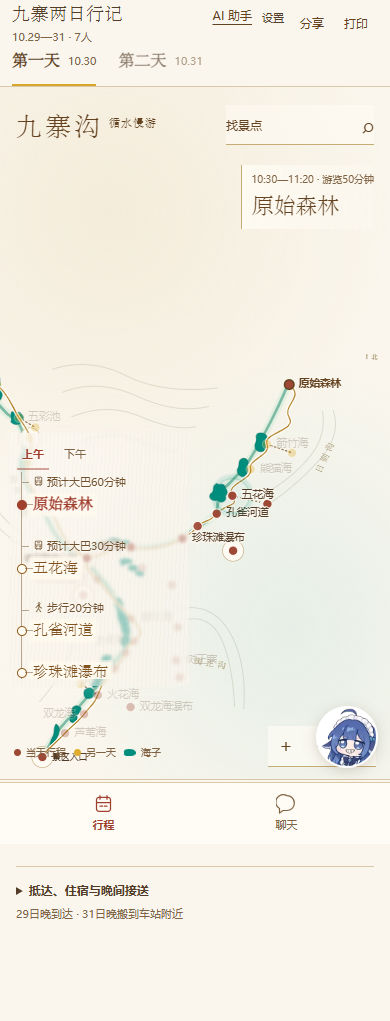
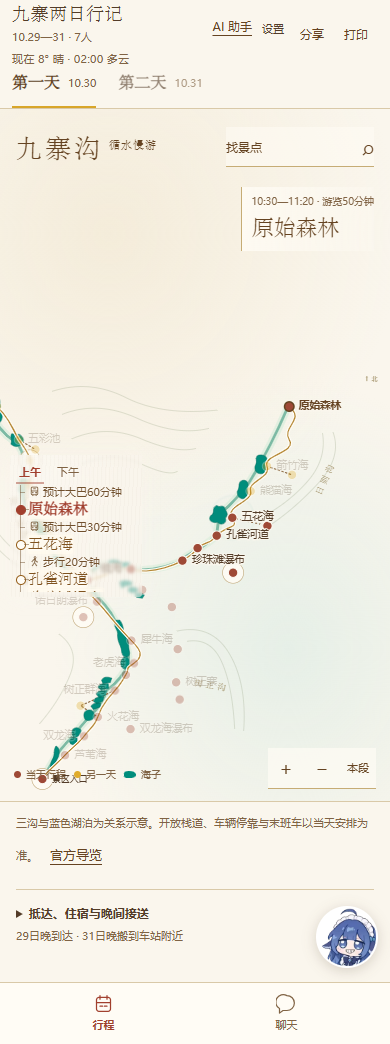
行程栏吸附内容宽度、景点紧凑排列与条目内向下展开

diff --git a/public/style.css b/public/style.css
@@ -90,11 +90,12 @@ main { max-width: 1680px; margin: auto; }
 .painting-title small { font: 15px var(--serif); letter-spacing: 4px; padding-top: 5px; }
 .painting-title i { display: none; padding: 4px 2px; margin-top: 74px; border: 1px solid var(--autumn); color: var(--autumn); font: normal 13px/1.2 var(--serif); }
 
-/* A four-place itinerary overlays the painting with backing only behind text. */
-.itinerary-inscription { position: absolute; top: var(--itinerary-top, 50%); left: 3.3%; width: 192px; max-height: none; padding: 8px 10px; border: 0; border-radius: 3px; color: var(--itinerary); display: flex; flex-direction: column; isolation: isolate; z-index: 2; background: radial-gradient(120% 80% at 18% 12%, rgba(255,255,255,.24), transparent 55%), repeating-linear-gradient(93deg, rgba(128,99,68,.028) 0 1px, transparent 1px 4px), rgba(250,246,237,.62); box-shadow: 0 0 18px rgba(250,246,237,.3); -webkit-backdrop-filter: blur(1.5px); backdrop-filter: blur(1.5px); }
+/* The itinerary hugs its widest line instead of keeping a fixed, emptier column. */
+.itinerary-inscription { position: absolute; top: var(--itinerary-top, 50%); left: 3.3%; width: var(--itinerary-width, fit-content); min-width: 132px; max-width: min(168px, calc(100% - 24px)); max-height: none; padding: 5px 7px 5px; border: 0; border-radius: 3px; color: var(--itinerary); display: flex; flex-direction: column; isolation: isolate; z-index: 2; background: radial-gradient(120% 80% at 18% 12%, rgba(255,255,255,.24), transparent 55%), repeating-linear-gradient(93deg, rgba(128,99,68,.028) 0 1px, transparent 1px 4px), rgba(250,246,237,.62); box-shadow: 0 0 18px rgba(250,246,237,.3); -webkit-backdrop-filter: blur(1.5px); backdrop-filter: blur(1.5px); transition: top .18s ease; }
 .timeline-ink { position: relative; display: inline-block; max-width: 100%; vertical-align: top; isolation: isolate; }
 /* Only the place name carries a small cream backing; times and transport stay plain. */
-.itinerary-inscription .place-name { padding: 0 3px; margin: 0 -3px; border-radius: 2px; background: rgba(255,250,238,.9); box-shadow: 0 0 0 2px rgba(255,250,238,.52); }
+.itinerary-inscription .place-name { padding: 0; margin: 0 -1px; border-radius: 2px; background: rgba(255,250,238,.9); box-shadow: 0 0 0 2px rgba(255,250,238,.52); word-break: keep-all; overflow-wrap: normal; }
+.itinerary-inscription .step-places .timeline-ink { word-break: keep-all; overflow-wrap: normal; }
 @supports not ((backdrop-filter: blur(1px)) or (-webkit-backdrop-filter: blur(1px))) {
   .itinerary-inscription { background-color: rgba(250,246,237,.78); }
 }
@@ -111,7 +112,7 @@ main { max-width: 1680px; margin: auto; }
 .period-switch [aria-pressed=true] { color: var(--maple); border-bottom-color: var(--gold); font-weight: 600; }
 .itinerary-inscription .period-switch { border-bottom: 0; }
 .itinerary-inscription .period-switch [aria-pressed=true] { border-bottom-color: rgba(161,63,45,.45); }
-.schedule-list { list-style: none; padding: 0 5px 0 0; margin: 0; max-height: min(306px, var(--timeline-window, 306px)); overflow-x: hidden; overflow-y: auto; overscroll-behavior: contain; scroll-snap-type: y proximity; scrollbar-width: thin; scrollbar-color: rgba(128,99,68,.3) transparent; min-height: 70px; }
+.schedule-list { list-style: none; padding: 0; margin: 0; max-height: var(--timeline-window, 306px); overflow-x: hidden; overflow-y: auto; overscroll-behavior: contain; scroll-snap-type: y proximity; scrollbar-width: thin; scrollbar-gutter: stable; scrollbar-color: rgba(128,99,68,.3) transparent; min-height: 0; }
 .schedule-row { margin-bottom: 3px; }
 .schedule-row:last-child { border-bottom: 0; }
 .schedule-step { display: flex; align-items: baseline; gap: 7px; width: 100%; min-height: 44px; padding: 8px 0; border: 0; background: transparent; text-align: left; }
@@ -133,44 +134,44 @@ main { max-width: 1680px; margin: auto; }
 .spot-notes dt { color: var(--pine); font-size: 11px; letter-spacing: 1px; }
 .spot-notes dd { margin: 3px 0 0; font-size: 13px; color: var(--ink); line-height: 1.7; }
 .spot-notes .note-empty { height: 8px; border-bottom: 1px dotted var(--line); }
-.itinerary-inscription.is-compact { width: 192px; }
-.is-compact .schedule-step { min-height: 40px; padding: 7px 0; }
+.itinerary-inscription.is-compact { width: var(--itinerary-width, fit-content); }
 .is-compact .step-chevron { display: none; }
 
 /* Compact itinerary typography; map and system typography stay unchanged. */
 .itinerary-inscription { text-shadow: 0 1px 2px #fff; }
 .itinerary-inscription button, .itinerary-inscription input { text-shadow: inherit; }
-.itinerary-inscription .period-switch { gap: 10px; margin-bottom: 2px; }
-.itinerary-inscription .period-switch button { flex: 0 0 auto; min-height: 30px; padding: 3px 5px; line-height: 1.3; }
+.itinerary-inscription .period-switch { gap: 10px; margin-bottom: 1px; }
+.itinerary-inscription .period-switch button { flex: 0 0 auto; min-height: 24px; padding: 1px 3px; line-height: 1.25; }
 .itinerary-inscription .schedule-row { margin-bottom: 0; }
-.itinerary-inscription .schedule-step { display: block; min-height: 40px; padding: 0; line-height: 1.35; }
-.itinerary-inscription .schedule-step strong { display: block; font-family: var(--serif); font-size: 15px; line-height: 1.35; }
-.itinerary-inscription .step-meta { margin-top: 1px; font-family: "Microsoft YaHei", "PingFang SC", system-ui, sans-serif; font-size: 11px; line-height: 1.35; white-space: normal; }
+.itinerary-inscription .schedule-step { display: block; min-height: 0; padding: 0; line-height: 1.25; }
+.itinerary-inscription .schedule-step strong { display: block; font-family: var(--serif); font-size: 15px; line-height: 1.25; }
+.itinerary-inscription .step-meta { margin-top: 0; font-family: "Microsoft YaHei", "PingFang SC", system-ui, sans-serif; font-size: 11px; line-height: 1.3; white-space: normal; }
 .itinerary-inscription .step-meta time { white-space: nowrap; }
-.itinerary-inscription .step-detail { padding-bottom: 5px; }
-.itinerary-inscription .step-places { gap: 2px 6px; margin-bottom: 3px; }
-.itinerary-inscription .step-places button { min-height: 30px; padding: 3px 0; font-family: var(--serif); font-size: 13px; line-height: 1.35; }
-.itinerary-inscription .spot-notes { gap: 3px; }
-.itinerary-inscription .spot-notes > div { display: grid; grid-template-columns: auto minmax(0, 1fr); align-items: baseline; column-gap: 5px; }
-.itinerary-inscription .spot-notes dt { font-size: 11px; line-height: 1.45; letter-spacing: 0; }
-.itinerary-inscription .spot-notes dd { margin: 0; font-size: 12px; line-height: 1.45; }
+.itinerary-inscription .step-detail { margin-left: 1px; padding: 3px 4px 4px 7px; border-left: 1px solid rgba(128,99,68,.34); border-radius: 0 2px 2px 0; background: rgba(255,250,238,.84); box-shadow: 0 0 0 2px rgba(255,250,238,.32); text-shadow: none; animation: detail-drop .16s ease-out; }
+.itinerary-inscription .step-places { gap: 1px 5px; margin-bottom: 2px; }
+.itinerary-inscription .step-places button { min-height: 22px; padding: 1px 0; font-family: var(--serif); font-size: 12px; line-height: 1.25; }
+.itinerary-inscription .spot-notes { gap: 4px; }
+.itinerary-inscription .spot-notes > div { display: block; }
+.itinerary-inscription .spot-notes dt { font-size: 11px; line-height: 1.35; letter-spacing: 0; }
+.itinerary-inscription .spot-notes dd { margin: 0; font-size: 12px; line-height: 1.5; }
 .itinerary-inscription .spot-notes .is-empty { display: none; }
 .itinerary-inscription .inscription-heading { padding: 0 0 2px; }
 .itinerary-inscription .inscription-heading .quiet-button { min-height: 28px; padding: 2px 4px; }
-.timeline-stop { position: relative; padding: 0 0 4px 16px; scroll-snap-align: start; }
+@keyframes detail-drop { from { opacity: 0; transform: translateY(-3px); } to { opacity: 1; transform: none; } }
+.timeline-stop { position: relative; padding: 0 0 1px 13px; scroll-snap-align: start; }
 .timeline-stop::before { content: ''; position: absolute; left: 4px; top: 0; bottom: 0; width: 1px; background: rgba(128,99,68,.55); }
-.timeline-stop:last-child::before { bottom: 28px; }
+.timeline-stop:last-child::before { bottom: 20px; }
 .timeline-connection:empty { display: none; }
-.timeline-node { position: relative; display: block; min-height: 36px; }
-.timeline-node::before { content: ''; position: absolute; left: -16px; top: 6px; width: 8px; height: 8px; border: 1px solid var(--gold-ink); border-radius: 50%; background: var(--paper); }
-.timeline-node::after { content: ''; position: absolute; left: -8px; top: 10px; width: 8px; height: 1px; background: rgba(128,99,68,.55); }
+.timeline-node { position: relative; display: block; min-height: 0; }
+.timeline-node::before { content: ''; position: absolute; left: -13px; top: 5px; width: 8px; height: 8px; border: 1px solid var(--gold-ink); border-radius: 50%; background: var(--paper); }
+.timeline-node::after { content: ''; position: absolute; left: -5px; top: 9px; width: 5px; height: 1px; background: rgba(128,99,68,.55); }
 .timeline-stop.is-active .timeline-node::before { background: var(--maple); border-color: var(--maple); }
-.schedule-leg, .timeline-self-leg { position: relative; display: block; width: 100%; min-height: 20px; padding: 0; border: 0; background: none; color: #71502d; font: 11px/1.5 "Microsoft YaHei", "PingFang SC", system-ui, sans-serif; text-align: left; }
-.schedule-leg::before, .timeline-self-leg::before { content: ''; position: absolute; left: -11px; top: 10px; width: 7px; height: 1px; background: rgba(128,99,68,.55); }
+.schedule-leg, .timeline-self-leg { position: relative; display: block; width: 100%; min-height: 0; padding: 0; border: 0; background: none; color: #71502d; font: 11px/1.35 "Microsoft YaHei", "PingFang SC", system-ui, sans-serif; text-align: left; }
+.schedule-leg::before, .timeline-self-leg::before { content: ''; position: absolute; left: -9px; top: 7px; width: 5px; height: 1px; background: rgba(128,99,68,.55); }
 .schedule-row.selected .schedule-leg { color: var(--maple); font-weight: 600; }
 .travel-icon { width: 12px; height: 12px; margin-right: 3px; vertical-align: -1px; fill: none; stroke: currentColor; stroke-width: 1.4; stroke-linecap: round; stroke-linejoin: round; }
-.itinerary-inscription .travel-icon { width: 11px; height: 11px; }
-.timeline-stop .step-detail { padding: 3px 0 6px; }
+.itinerary-inscription .travel-icon { width: 11px; height: 11px; vertical-align: -1px; }
+.timeline-stop .step-detail { padding: 2px 0 4px 8px; }
 
 
 .location-pointer { position: absolute; width: 24px; height: 40px; transform: translate(-50%, -100%); pointer-events: none; z-index: 1; filter: drop-shadow(0 1px 2px rgba(101,67,33,.2)); }
@@ -258,7 +259,6 @@ main { max-width: 1680px; margin: auto; }
 .print-itinerary { display: none; }
 @media (max-width: 1000px) and (min-width: 701px) {
   .landscape { height: 680px; }
-  .itinerary-inscription { width: 192px; }
   .map-caption { max-width: 200px; }
 }
 
@@ -289,8 +289,8 @@ main { max-width: 1680px; margin: auto; }
   .map-caption { top: 78px; right: 16px; max-width: 46%; padding: 6px 0 6px 9px; }
   .map-caption > p { font-size: 10px; }
   .map-caption h3 { font-size: 22px; margin: 3px 0; }
-  .itinerary-inscription { bottom: auto; left: 10px; width: min(184px, 46%); max-height: none; padding: 7px; }
-  .itinerary-inscription.is-compact { width: min(184px, 46%); }
+  .itinerary-inscription { bottom: auto; left: 10px; width: var(--itinerary-width, fit-content); max-width: min(168px, calc(100% - 20px)); max-height: none; padding: 5px 6px; }
+  .itinerary-inscription.is-compact { width: var(--itinerary-width, fit-content); }
 
   .inscription-heading { padding: 2px 0; }
   .inscription-heading p, .inscription-heading .quiet-button { font-size: 11px; }
@@ -300,7 +300,7 @@ main { max-width: 1680px; margin: auto; }
   .timing-warning { font-size: 11px; }
   .period-switch { gap: 0; }
   .period-switch button { min-height: 38px; padding: 6px 4px; font-size: 11px; }
-  .schedule-list { padding-right: 5px; -webkit-overflow-scrolling: touch; }
+  .schedule-list { padding-right: 2px; -webkit-overflow-scrolling: touch; }
   .schedule-step { min-height: 48px; padding: 8px 0; gap: 5px; }
   .schedule-step strong { font-size: 13px; }
   .step-meta { font-size: 11px; }
@@ -344,17 +344,11 @@ main { max-width: 1680px; margin: auto; }
 .plan-setting legend { padding: 0; font-size: 12px; color: var(--muted); }
 .plan-setting label { display: flex; align-items: center; gap: 7px; min-height: 40px; font-size: 13px; cursor: pointer; }
 .plan-setting input { margin: 0; accent-color: var(--map-today); }
-/* Details never expand the always-visible itinerary. */
-.map-detail { position: absolute; z-index: 2; right: 32px; bottom: 76px; width: 250px; max-height: 35%; overflow: auto; padding: 10px 12px; background: rgba(255,252,245,.96); border: 1px solid var(--line); }
-.map-detail .step-detail { padding: 0; }
-.detail-title { font: 15px/1.4 var(--serif); margin-bottom: 6px; }
-.map-detail .spot-notes .is-empty { display: none; }
+/* Expanded stops grow inside the inscription itself; no separate detail card. */
 .map-viewport.is-moving .route-svg { will-change: transform; }
 .itinerary-inscription .inscription-heading { display: none; }
 
 @media (max-width: 700px) {
-  .map-detail { right: 10px; bottom: 70px; width: calc(50% - 14px); max-height: 30%; padding: 8px; }
-  .map-detail .spot-notes dd { font-size: 12px; }
   .painting-title { gap: 6px; }
   .painting-title > span { font-size: 26px; letter-spacing: 3px; }
   .painting-title small { font-size: 11px; letter-spacing: 1px; }
@@ -364,11 +358,9 @@ main { max-width: 1680px; margin: auto; }
   .painting-title { display: none; }
   .itinerary-inscription { padding: 4px; }
   .itinerary-inscription .schedule-step strong { white-space: nowrap; overflow: hidden; text-overflow: ellipsis; line-height: 1.2; }
-  .itinerary-inscription .step-meta { white-space: nowrap; line-height: 1.2; }
+  .itinerary-inscription .step-meta { line-height: 1.2; }
   .itinerary-inscription .timeline-stop { padding-bottom: 0; }
-  .itinerary-inscription .timeline-node { min-height: 32px; }
-  .itinerary-inscription .schedule-step { min-height: 34px; }
-  .itinerary-inscription .schedule-leg, .itinerary-inscription .timeline-self-leg { min-height: 18px; line-height: 1.4; }
+  .itinerary-inscription .schedule-leg, .itinerary-inscription .timeline-self-leg { line-height: 1.3; }
   .map-legend { display: none; }
 }
 @media (prefers-reduced-motion: reduce) { *, *::before, *::after { animation: none !important; transition: none !important; scroll-behavior: auto !important; } }
@@ -376,7 +368,7 @@ main { max-width: 1680px; margin: auto; }
   html, body { height: auto !important; overflow: visible !important; }
   main { height: auto !important; }
   body { padding: 0; background: #fff; font-size: 11px; }
-  .header, .bottom-nav, .skip, .toast, .location-pointer, .day-switch, .itinerary-inscription, .map-search, .map-caption, .map-detail, .map-controls, .journey-log, .journey-actions, .quiet-button, [data-view=weather], [data-view=notes] { display: none !important; }
+  .header, .bottom-nav, .skip, .toast, .location-pointer, .day-switch, .itinerary-inscription, .map-search, .map-caption, .map-controls, .journey-log, .journey-actions, .quiet-button, [data-view=weather], [data-view=notes] { display: none !important; }
   [data-view=home][hidden] { display: block !important; }
   .journey-heading { padding: 10px 0; }
   .landscape { height: auto; min-height: 0; max-height: none; overflow: visible; border: 0; }

diff --git a/public/app.js b/public/app.js
@@ -118,7 +118,6 @@ function render() {
           </aside>
           <details class="map-search" id="map-search"><summary aria-label="找景点"><span class="search-label">找景点</span><span class="search-icon" aria-hidden="true">⌕</span></summary><div><label for="spot-search">景点、栈道或换乘点</label><input id="spot-search" type="search" placeholder="例如：五花海" autocomplete="off"><div id="spot-results" aria-live="polite"></div></div></details>
           <article class="map-caption" id="map-caption" aria-live="polite"></article>
-          <section class="map-detail" id="map-detail" aria-label="所选行程详情" hidden></section>
           <div class="map-controls" role="group" aria-label="地图控制"><button type="button" data-zoom="in" aria-label="放大地图">＋</button><button type="button" data-zoom="out" aria-label="缩小地图">−</button><button type="button" id="map-follow">本段</button><output id="map-scale" aria-label="地图缩放比例">1×</output></div>
           <div class="map-legend" aria-label="地图图例"><span><i></i>当天行程</span><span><i></i>另一天</span><span><i></i>海子</span><small>可缩放、滑动</small></div>
         </div>
@@ -230,7 +229,7 @@ function itineraryName(step) {
   const labels = {
     'd1-entry': '乘车到原始森林', 'd1-wuhua-bus': '乘车到五花海', 'd1-peacock': '徒步孔雀河道',
     'd1-parking': '步行到镜海停车场', 'd1-center': '乘车到诺日朗中心',
-    'd1-walk-falls': '步行到诺日朗瀑布', 'd1-nuorilang': '诺日朗瀑布、观景台',
+    'd1-walk-falls': '步行到诺日朗瀑布', 'd1-nuorilang': '诺日朗瀑布观景台',
     'd1-falls-stop': '步行到上车点', 'd1-rhino-bus': '乘车到犀牛海',
     'd1-tree-bus': '乘车到树正寨', 'd1-tree': '树正寨、群海',
     'd1-spark-bus': '乘车到火花海', 'd1-double-walk': '步行到双龙海瀑布',
@@ -275,9 +274,17 @@ function renderSpotNotes(id) {
   return `<dl class="spot-notes" aria-label="${esc(spot.name)}的看点与注意事项">${field('看点', spot.highlights)}${field('注意事项', spot.tips)}</dl>`;
 }
 
+function breakableName(name) {
+  // Long place names may wrap in the narrow itinerary; break at a meaningful suffix.
+  return esc(name)
+    .replace(/(观景台|上车点|换乘)$/, '<wbr>$1')
+    .replace(/^(步行到|乘车到|徒步)/, '$1<wbr>')
+    .replace(/栈道(?=到|→)/, '栈道<wbr>');
+}
+
 function renderTimelineDetail(step, expanded) {
   const spotId = step.spotIds.includes(state.spot) ? state.spot : timelineSpot(step);
-  return `<div class="step-detail" id="detail-${esc(step.id)}"${expanded ? '' : ' hidden'}><p class="detail-title">${esc(itineraryName(step))}</p>${step.spotIds.length > 1 ? `<div class="step-places" role="group" aria-label="本段地点">${step.spotIds.map(id => `<button type="button" data-spot="${esc(id)}" aria-pressed="${spotId === id}"><span class="timeline-ink">${esc(locationInfo(id).name)}</span></button>`).join('')}</div>` : ''}${renderSpotNotes(spotId)}</div>`;
+  return `<div class="step-detail" id="detail-${esc(step.id)}"${expanded ? '' : ' hidden'}>${step.spotIds.length > 1 ? `<div class="step-places" role="group" aria-label="本段地点">${step.spotIds.map(id => `<button type="button" data-spot="${esc(id)}" aria-pressed="${spotId === id}"><span class="timeline-ink">${breakableName(locationInfo(id).name)}</span></button>`).join('')}</div>` : ''}${renderSpotNotes(spotId)}</div>`;
 }
 
 function renderSchedule() {
@@ -302,15 +309,10 @@ function renderSchedule() {
     }).join('');
     const duration = step.mode === 'visit' ? ` · 游览${step.duration}分钟` : step.mode === 'rest' ? ` · 休息${step.duration}分钟` : '';
     const time = moving ? `${clock(step.start)}—${clock(step.end)}` : clock(step.start);
-    return `<li class="timeline-stop${active ? ' is-active' : ''}" data-node-id="${esc(step.id)}">${moving ? '' : `<div class="timeline-connection">${incoming}</div>`}<div class="schedule-row${step.id === state.step ? ' selected' : ''}" data-step-row="${esc(step.id)}"><button type="button" class="schedule-step${moving ? ' is-moving' : ''}" data-step="${esc(step.id)}" aria-pressed="${step.id === state.step}" aria-expanded="${expanded}" aria-controls="detail-${esc(step.id)}">${moving ? `<span class="timeline-self-leg"><span class="timeline-ink">${timelineTravelMarkup(step)}</span></span>` : ''}<span class="timeline-node"><span class="step-summary"><strong><span class="timeline-ink place-name">${esc(timelinePlace(stop))}${step.id === state.nowStep ? '<span class="step-now">现在</span>' : ''}</span></strong><span class="step-meta"${expanded ? '' : ' hidden'}><span class="timeline-ink"><time>${time}</time>${duration}</span></span></span></span></button>${renderTimelineDetail(step, expanded)}</div></li>`;
+    return `<li class="timeline-stop${active ? ' is-active' : ''}" data-node-id="${esc(step.id)}">${moving ? '' : `<div class="timeline-connection">${incoming}</div>`}<div class="schedule-row${step.id === state.step ? ' selected' : ''}" data-step-row="${esc(step.id)}"><button type="button" class="schedule-step${moving ? ' is-moving' : ''}" data-step="${esc(step.id)}" aria-pressed="${step.id === state.step}" aria-expanded="${expanded}" aria-controls="detail-${esc(step.id)}">${moving ? `<span class="timeline-self-leg"><span class="timeline-ink">${timelineTravelMarkup(step)}</span></span>` : ''}<span class="timeline-node"><span class="step-summary"><strong><span class="timeline-ink place-name">${breakableName(timelinePlace(stop))}${step.id === state.nowStep ? '<span class="step-now">现在</span>' : ''}</span></strong><span class="step-meta"${expanded ? '' : ' hidden'}><span class="timeline-ink"><time>${time}</time>${duration}</span></span></span></span></button>${renderTimelineDetail(step, expanded)}</div></li>`;
   }).join('') : '<li class="empty">该时段没有安排，请切换其他时段。</li>';
   $('#inscription').classList.toggle('is-compact', state.compact);
   $('#inscription').classList.toggle('has-detail', !state.compact && Boolean(state.expandedStep));
-  const detail = state.expandedStep && $(`#detail-${state.expandedStep}`);
-  const detailPanel = $('#map-detail');
-  detailPanel.replaceChildren();
-  detailPanel.hidden = !detail || state.compact;
-  if (detail && !state.compact) detailPanel.append(detail);
   $('.inscription-heading').hidden = state.compact;
 
   $('[data-toggle-panel]').setAttribute('aria-expanded', String(!state.compact));
@@ -324,14 +326,29 @@ function renderSchedule() {
 function fitTimelineWindow() {
   const list = $('#schedule-list');
   if (!list?.getBoundingClientRect().height) return;
-  const tops = $$('.timeline-node', list).map(node => node.getBoundingClientRect().top);
-  const spans = tops.slice(4).map((top, index) => top - tops[index]);
-  if (spans.length) list.style.setProperty('--timeline-window', `${Math.floor(Math.min(...spans) - 1)}px`);
-  else list.style.removeProperty('--timeline-window');
   const panel = $('#inscription');
   const frame = $('#schematic').getBoundingClientRect();
   const legend = $('.map-legend').getBoundingClientRect();
   const bottomSpace = legend.height ? frame.bottom - legend.top + 12 : 16;
+
+  // While a stop is open, keep its top anchored and let the panel grow downward.
+  if (!state.compact && state.expandedStep) {
+    const panelTop = Math.max(8, Math.round(panel.getBoundingClientRect().top - frame.top));
+    panel.style.setProperty('--itinerary-top', `${panelTop}px`);
+    const header = panel.offsetHeight - list.offsetHeight;
+    const available = frame.height - panelTop - bottomSpace - header - 2;
+    list.style.setProperty('--timeline-window', `${Math.max(96, Math.floor(available))}px`);
+    return;
+  }
+
+  // The compact state measures once, then keeps that width when a stop opens.
+  panel.style.removeProperty('--itinerary-width');
+  panel.style.setProperty('--itinerary-width', `${Math.ceil(panel.getBoundingClientRect().width)}px`);
+
+  const tops = $$('.timeline-node', list).map(node => node.getBoundingClientRect().top);
+  const spans = tops.slice(4).map((top, index) => top - tops[index]);
+  if (spans.length) list.style.setProperty('--timeline-window', `${Math.floor(Math.min(...spans) - 1)}px`);
+  else list.style.removeProperty('--timeline-window');
   const lastTop = frame.height - panel.getBoundingClientRect().height - bottomSpace;
   panel.style.setProperty('--itinerary-top', `${Math.round(Math.max(8, Math.min(frame.height / 2, lastTop)))}px`);
 }
@@ -426,7 +443,7 @@ function chooseSpot(id, fromItinerary = false) {
   focusPoints([spot.position]);
   rippleSpot();
   if (restoreMapFocus) $(`#schematic [data-spot="${esc(id)}"]`).focus({ preventScroll: true });
-  if (restoreListFocus) $(`#map-detail [data-spot="${esc(id)}"]`)?.focus({ preventScroll: true });
+  if (restoreListFocus) $(`#inscription [data-spot="${esc(id)}"]`)?.focus({ preventScroll: true });
 }
 
 function renderCaption() {
@@ -908,7 +925,7 @@ document.addEventListener('click', event => {
   const step = event.target.closest('[data-step]');
   if (step) { chooseStep(step.dataset.step); return; }
   const spot = event.target.closest('[data-spot]');
-  if (spot) { chooseSpot(spot.dataset.spot, Boolean(spot.closest('#inscription, #map-detail'))); return; }
+  if (spot) { chooseSpot(spot.dataset.spot, Boolean(spot.closest('#inscription'))); return; }
   const zoom = event.target.closest('[data-zoom]');
   if (zoom) { compactItinerary(); setMapZoom(Number($('#schematic').dataset.zoom || 1) * (zoom.dataset.zoom === 'in' ? 1.4 : 1 / 1.4)); return; }
   if (event.target.closest('[data-toggle-panel]')) { compactItinerary(); return; }

diff --git a/docs/design-notes.md b/docs/design-notes.md
@@ -155,3 +155,14 @@ README使用web0.1.0标题，项目定位为“普通的两天行程参考手册
 - 景点钟点和详情默认收起，行内只留宋体地点名；点地点展开钟点与详情，再点同一条收起。交通用时始终显示，不随景点钟点折叠。
 - 验证：83 项 Node 测试、六档宽度无横向溢出；新增 `tests/itinerary-focus.browser.cjs` 检查收起/展开、交通可见、底纹透明度和当前时段点位不透明度。预览见 `itinerary-focus-mobile.png`、`itinerary-focus-desktop.png`。
 - 已发布到 <https://47.111.21.130/>（提交 `a65680d`）。线上浏览器实测：行程栏底色 `rgba(250,246,237,.62)`、景点名衬底 `rgba(255,250,238,.9)`、钟点默认收起、交通用时可见、27 个非当前时段点位为淡化状态；容器健康。
+
+## 2026年10月22日 · 吸附式行程栏与向下展开
+
+用户反馈行程栏底部的模糊底块仍偏宽、景点之间空隙过大，要求做成吸附内容的样子；点击展开后向下延伸，收起时自动变紧凑。
+
+- 行程栏改为 `width: fit-content` 并限制在 132–168px，左内边距收到 5–6px，默认展开时不再保留整列空白。傍晚遇到“诺日朗出沟上车点”这类长名称时才吸附到 155px 左右，其余时段通常为 132px。
+- 景点行去掉固定 40px 最小高度和上下留白，地点名 15px 行高 18.75px，交通行 11px 行高 14.85px，收起时相邻景点间距为 0，节点与连结线同步收紧。
+- “简览”宽度先按内容测一次，写入 `--itinerary-width`；展开时沿用该宽度，不再横向变宽，只向下长高。展开详情留在行程栏内部，不再出现在右下独立卡片。
+- 长地点名用语义断点（观景台／上车点／换乘、步行到／乘车到、栈道到）插入 `<wbr>`，并设 `word-break: keep-all`，窄栏内换行时不会只剩一个字。
+- 展开时保持 `--itinerary-top` 不变，按地图底部剩余空间放大列表视窗；收起时重新按四地点窗口计算，恢复紧凑高度。
+- 浏览器验证：`tests/itinerary-focus.browser.cjs` 检查收起宽度 132px、景点间距 0、展开顶部不动且高度增加、宽度不变、收起后高度复原；六档宽度无溢出。截图见 `itinerary-focus-mobile.png`、`itinerary-focus-expanded-mobile.png`、`itinerary-focus-desktop.png`、`itinerary-focus-expanded-desktop.png`。

diff --git a/CHANGELOG.md b/CHANGELOG.md
@@ -23,6 +23,7 @@
 - 聊天入口新增未读红点：AI 主动发过话、且本机还没点进去看过时，首页挂件与底栏同时显示。
 - 行程时长文案改为「游览50分钟 / 休息20分钟」；手机端天气独占一行，不再和日期重叠。
 - 行程栏改为半透明宣纸米色底，景点名单独小衬底；非当前时段的景点圆点淡化；景点钟点默认收起，只留名字，点开再展开详情，交通用时始终可见。
+- 行程栏进一步改为吸附内容宽度（约 132px，长名称最多 168px），景点与交通行紧密相连；详情在条目内向下展开，顶部保持不动，收起后自动恢复紧凑高度。
 - 聊天消息改为贴底对齐，头像放大到 48px（手机 44px）；新增需求记录与交接文档。
 - 原文记录一条都不删除；记忆是派生物，可随时重建。失败重试仍不重复保存消息。
 - 新增 SQLite 持久卷、IP HTTPS 配置示例和部署验收文档；已部署到服务器，真实 DeepSeek 调用尚未验收。

diff --git a/HANDOFF.md b/HANDOFF.md
@@ -21,6 +21,8 @@
 | 检索工具（tool call） | 待做 |
 
 > **2026-10-22 已发布**：行程栏改为半透明宣纸米色底；景点名单独小衬底；景点钟点默认收起、点开再展开，交通用时始终可见；非当前时段的景点圆点淡化。提交 `a65680d`，线上容器健康，浏览器实测底纹透明度、收起状态和点位淡化均生效。版本号仍沿用 `web0.2.0`。
+>
+> **2026-10-22 本地待发布**：行程栏改为吸附内容宽度（常态约 132px，长名称最多 168px），景点与交通行之间不再留空；展开内容改在条目内向下延伸，顶部固定，收起后自动恢复紧凑高度；长名称按语义断点换行。`npm test` 83 项通过，`tests/itinerary-focus.browser.cjs` 通过；尚未提交、尚未部署到线上。
 
 ## 架构（按职责分文件）
 
